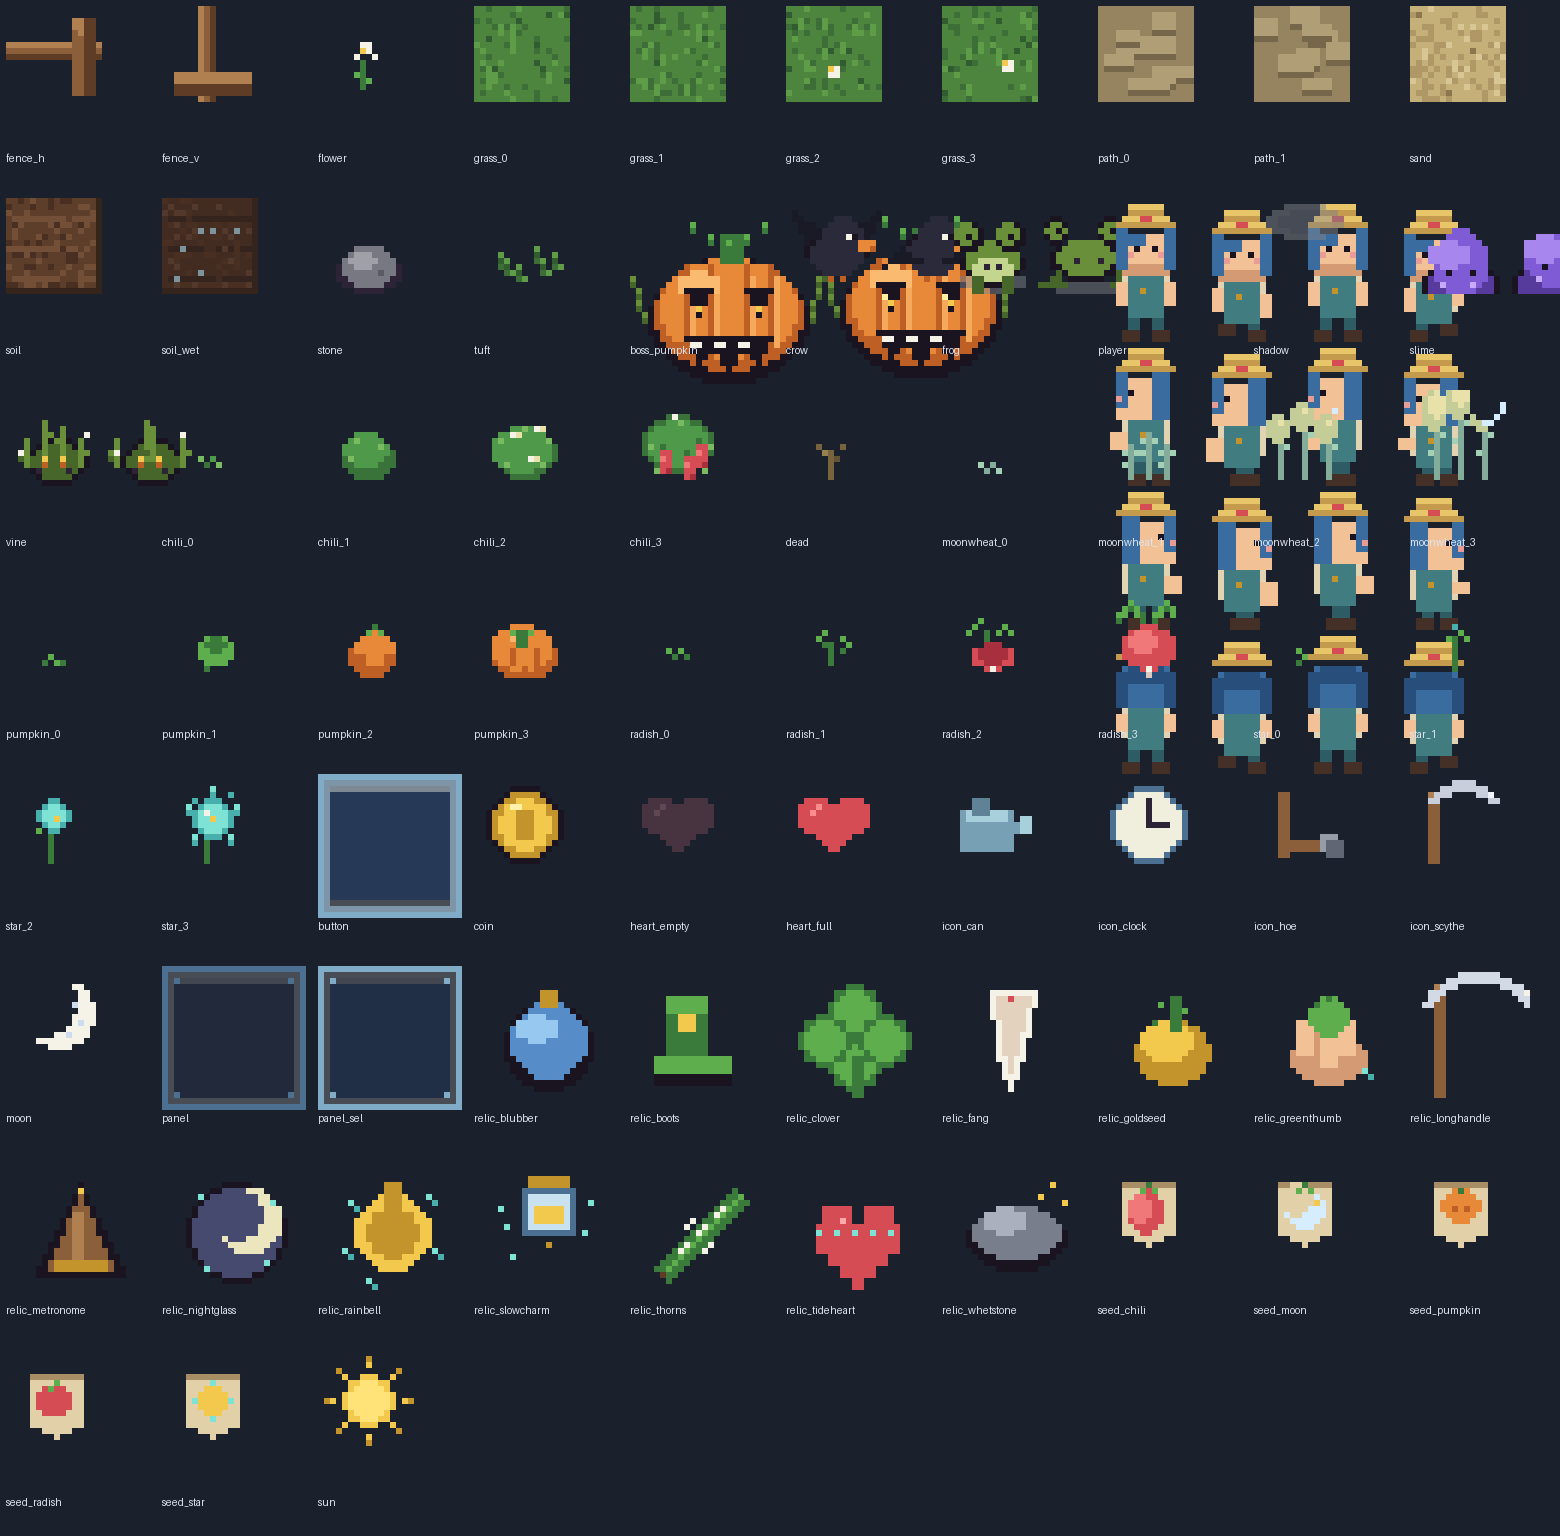
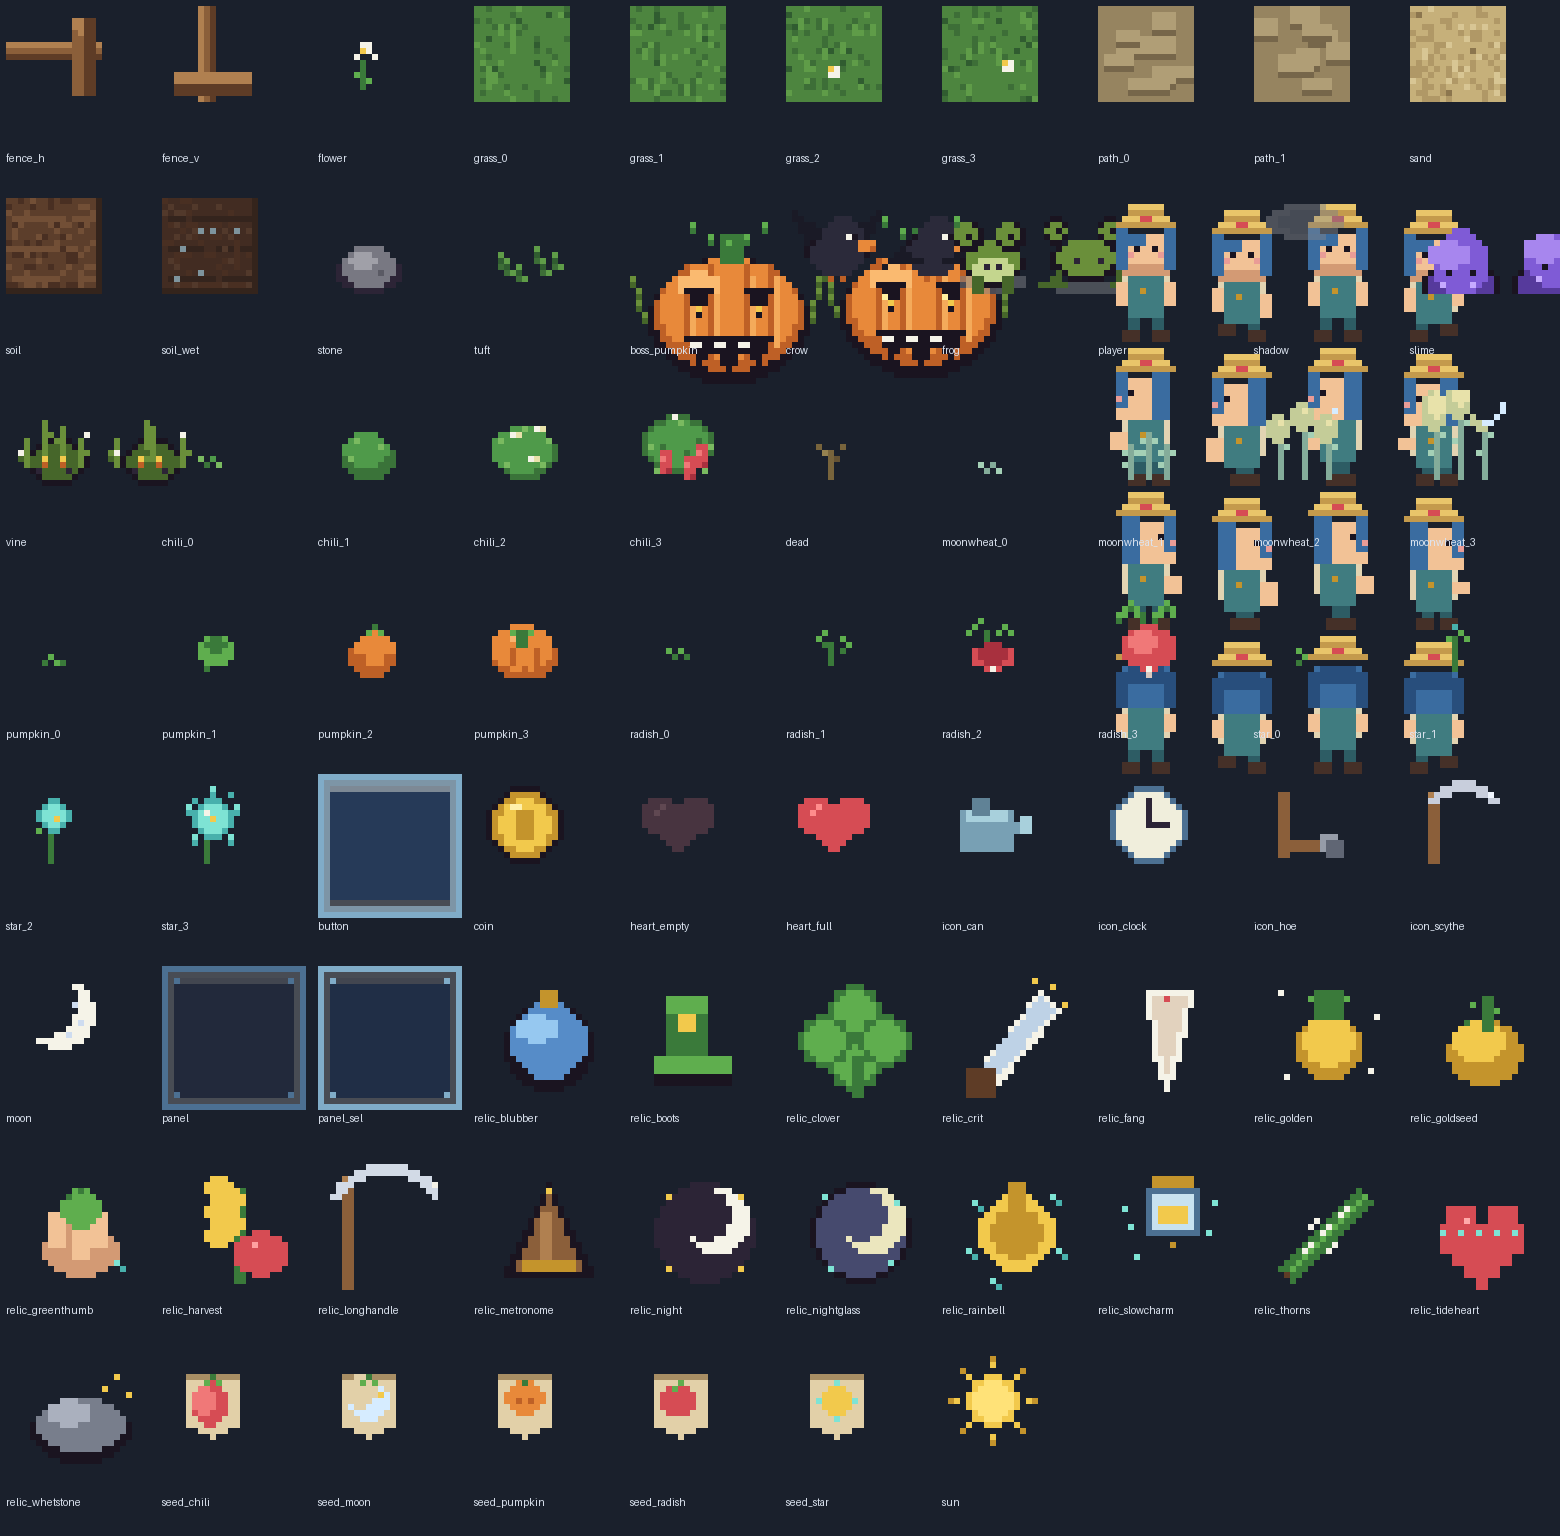
update 05: four new relics (crit, harvest heal, night damage, golden touch)

diff --git a/tools/gen_art.py b/tools/gen_art.py
@@ -1015,6 +1015,33 @@ def relic_icon(kind: str) -> Image.Image:
         px(d, 10, 6, C["green2"])
         px(d, 18, 17, C["cyan"])
         px(d, 19, 18, C["cyan2"])
+    elif kind == "crit":
+        d.polygon([(5, 18), (16, 4), (19, 7), (8, 20)], fill=C["white"])
+        d.polygon([(6, 17), (16, 5), (18, 7), (8, 18)], fill=(190, 210, 230, 255))
+        box(d, 4, 17, 8, 21, C["wood0"])
+        for x, y in ((18, 3), (20, 6), (15, 2)):
+            px(d, x, y, C["gold"])
+    elif kind == "harvest":
+        box(d, 12, 5, 13, 20, C["green2"])
+        for i, (x, y) in enumerate(((9, 5), (11, 7), (9, 9), (11, 11), (9, 13))):
+            disc(d, x, y, 2, 1.5, C["gold"])
+        disc(d, 16, 16, 4, 3.5, C["red"])
+        box(d, 15, 12, 17, 15, C["red"])
+        px(d, 15, 14, (255, 160, 160, 255))
+    elif kind == "night":
+        disc(d, 12, 12, 8, 8, C["ink2"])
+        disc(d, 14, 10, 5, 5, C["white"])
+        disc(d, 12, 9, 4, 4, C["ink2"])
+        for x, y in ((6, 6), (18, 6), (6, 18), (18, 18)):
+            px(d, x, y, C["gold"])
+    elif kind == "golden":
+        disc(d, 12, 13, 5, 5, C["gold2"])
+        disc(d, 12, 12, 4, 4, C["gold"])
+        box(d, 10, 4, 14, 8, C["green2"])
+        px(d, 9, 5, C["green"])
+        px(d, 15, 5, C["green"])
+        for x, y in ((4, 4), (20, 8), (5, 18), (19, 17)):
+            px(d, x, y, C["white"])
     else:
         disc(d, 12, 12, 8, 8, C["border"])
     return im
@@ -1250,7 +1277,7 @@ def main() -> None:
         save(tool_icon(k), "ui", f"icon_{k}.png")
     for rid in ("boots", "whetstone", "blubber", "metronome", "rainbell", "goldseed",
                 "fang", "thorns", "clover", "tideheart", "longhandle", "nightglass",
-                "slowcharm", "greenthumb"):
+                "slowcharm", "greenthumb", "crit", "harvest", "night", "golden"):
         save(relic_icon(rid), "ui", f"relic_{rid}.png")
     save(spark(), "fx", "spark.png")
     save(glow(), "fx", "glow.png")

diff --git a/docs/updates20.md b/docs/updates20.md
@@ -14,7 +14,7 @@
 
 ## v1.4.0 — 战斗与天气
 
-- [ ] 05. 4 个新祝福（暴击、收割回血、夜战强化、幸运掉落）
+- [x] 05. 4 个新祝福（暴击、收割回血、夜战强化、幸运掉落）
 - [ ] 06. 新怪物「甲虫」（减伤、慢速）
 - [ ] 07. 天气扩展：雾天、雷暴（闪电闪光）+ 黎明天气预报
 - [ ] 08. 成就系统（8 个成就 + 解锁弹窗 + 存档）
